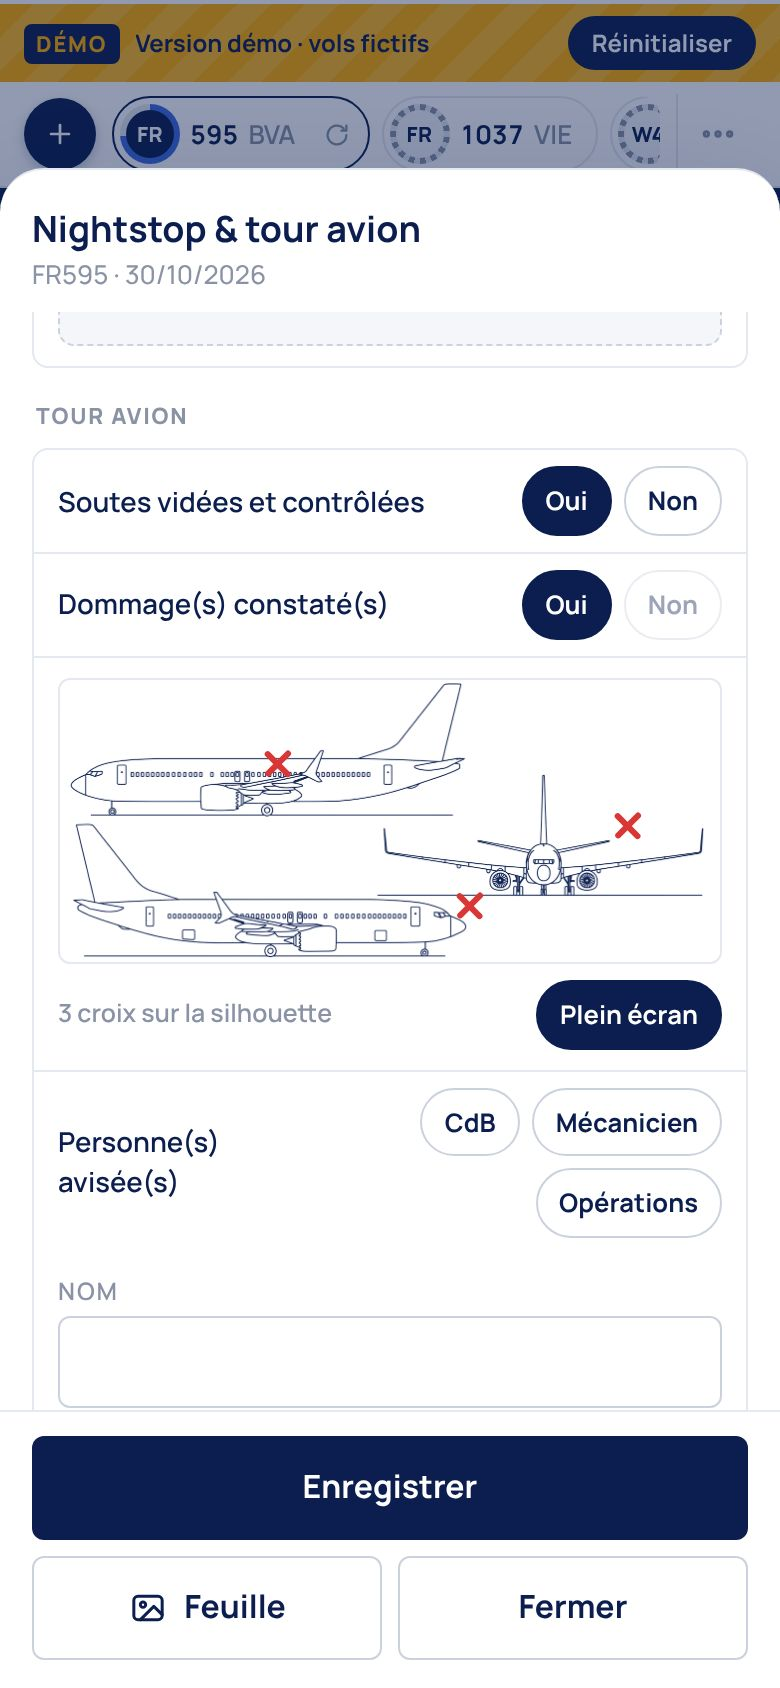
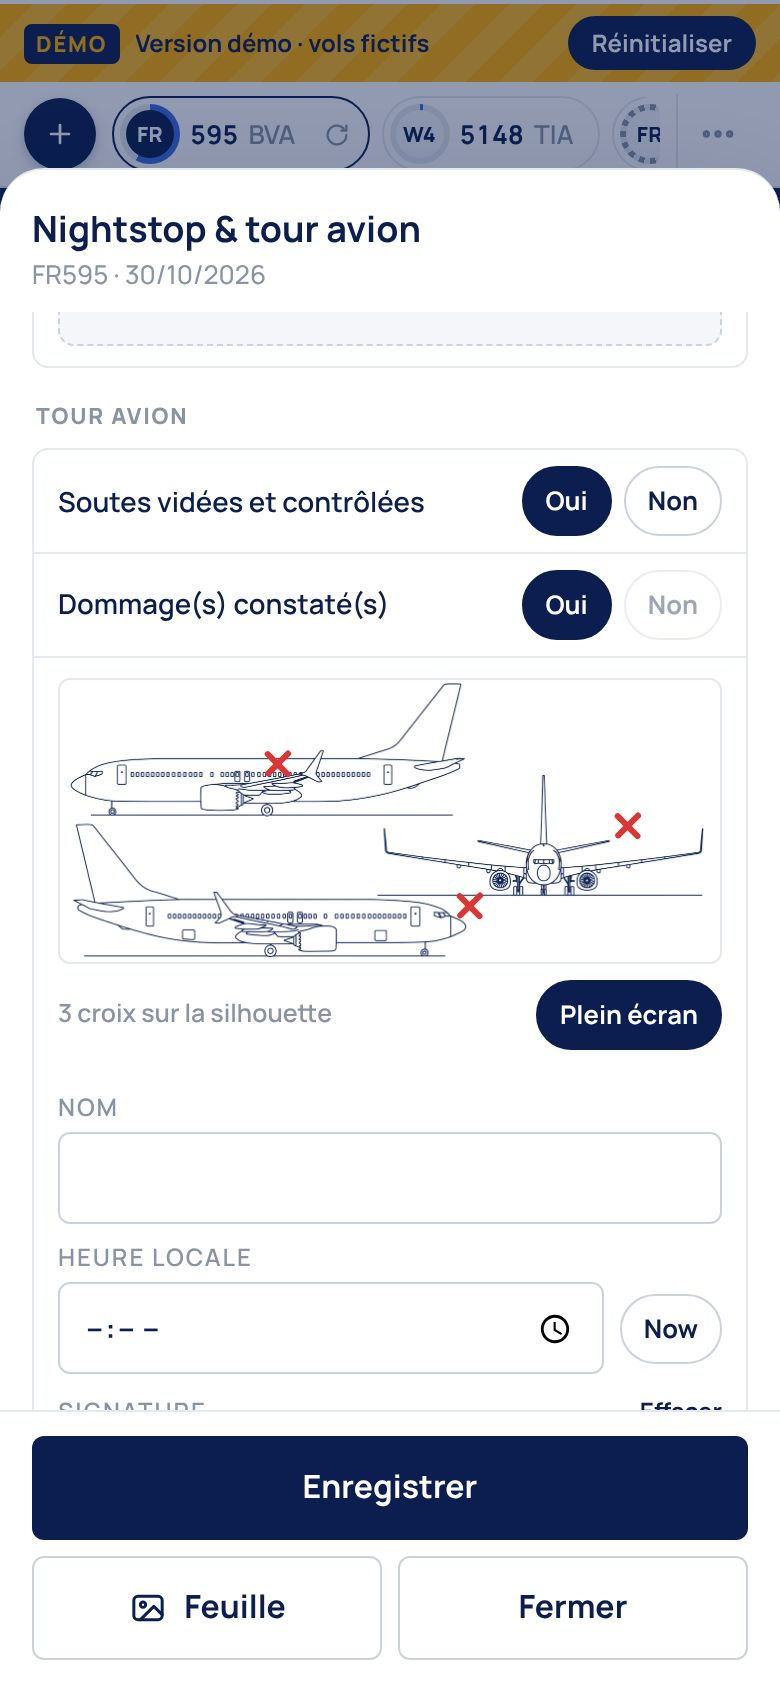
v3.51.2: Nightstop sans personnes avisées, heure prise à la signature, nom partagé fouille / tour avion + suggestions
Claude-Session: https://claude.ai/code/session_01BEmDqkNWhievWY6FKKJQpQ

diff --git a/nightstop.js b/nightstop.js
@@ -7,7 +7,7 @@
    Données du vol dans le champ caché Nightstop :
    { sv:{ toilV, toilR, eauV, eauR, men:'S'|'DC'|'DI'|'', ech, asu, tr:'BELLOVA'|'ASSISTAIR'|'', deg, dec },
      hs:{ on, ok, n, h, s },                       fouille soutes (retour basé, arrivée pays tiers)
-     ta:{ sv:'OUI'|'NON'|'', dm:'OUI'|'NON'|'', x:[[u,v]…], av:{ cdb, mec, ops }, n, h, s } }   tour avion
+     ta:{ sv:'OUI'|'NON'|'', dm:'OUI'|'NON'|'', x:[[u,v]…], n, h, s } }   tour avion
    Les croix sont en coordonnées relatives (0 à 1) sur la silhouette img/silhouette-b737.png.
    ===================================================================== */
 const NS_REQUIRED = false;
@@ -39,7 +39,7 @@ const NS_REQUIRED = false;
   function get(){
     let o = {};
     try{ o = JSON.parse($('Nightstop')?.value || '{}') || {}; }catch(e){}
-    o.sv = o.sv || {}; o.hs = o.hs || {}; o.ta = o.ta || {}; o.ta.x = o.ta.x || []; o.ta.av = o.ta.av || {};
+    o.sv = o.sv || {}; o.hs = o.hs || {}; o.ta = o.ta || {}; o.ta.x = o.ta.x || [];
     return o;
   }
   function set(o){
@@ -86,8 +86,12 @@ const NS_REQUIRED = false;
   window.uiNightstopClose = function(){ $('nsModal').style.display = 'none'; syncRow(); };
 
   const chip = (on, attrs, txt) => '<button type="button" class="ns-c' + (on ? ' on' : '') + '" ' + attrs + '>' + txt + '</button>';
+  // noms déjà saisis, proposés en suggestion (liste #nsNoms)
+  const nomsGet = () => { try{ const a = JSON.parse(localStorage.getItem('nsNoms') || '[]'); if(a.length) return a; const v = localStorage.getItem('nsNom'); return v ? [v] : []; }catch(e){ return []; } };
+  function nomsAdd(v){ try{ localStorage.setItem('nsNoms', JSON.stringify([v, ...nomsGet().filter(x => x.toLowerCase() !== v.toLowerCase())].slice(0, 8))); }catch(e){} }
+  const nomsList = () => '<datalist id="nsNoms">' + nomsGet().map(v => '<option value="' + esc(v) + '">').join('') + '</datalist>';
   const sigBlock = (key, name, nameLbl, ph, hour) =>
-      '<div class="field"><label class="label">' + nameLbl + '</label><input class="input" type="text" autocomplete="off" data-name="' + key + '" value="' + esc(name) + '"></div>'
+      '<div class="field"><label class="label">' + nameLbl + '</label><input class="input" type="text" autocomplete="off" list="nsNoms" data-name="' + key + '" value="' + esc(name) + '"></div>'
     + (hour != null ? '<div class="field ns-h"><label class="label">Heure locale</label><div class="ns-hrow"><input class="input" type="time" data-hour="' + key + '" value="' + esc(hour) + '"><button type="button" class="ns-c" data-now="' + key + '">Now</button></div></div>' : '')
     + '<div class="ac-sig-h"><span class="label">Signature</span><button type="button" class="ac-all" data-sigclr="' + key + '">Effacer</button></div>'
     + '<div class="ac-sig-wrap"><canvas class="ns-sig" data-sig="' + key + '"></canvas><span class="ac-sig-ph" data-ph="' + key + '">' + ph + '</span></div>';
@@ -130,10 +134,9 @@ const NS_REQUIRED = false;
       + '<div class="ns-row"><span>Dommage(s) constaté(s)</span><span class="ns-cs">' + chip(o.ta.dm === 'OUI', 'data-ta="dm" data-v="OUI"', 'Oui') + chip(o.ta.dm === 'NON', 'data-ta="dm" data-v="NON"' + (x.length ? ' disabled' : ''), 'Non') + '</span></div>'
       + '<div class="ns-pl-wrap"><button type="button" class="ns-pl" id="nsPlane" aria-label="Annoter la silhouette en plein écran">' + planeHTML(x) + '</button>'
       + '<div class="ns-pl-foot"><span>' + (x.length ? x.length + (x.length > 1 ? ' croix' : ' croix') + ' sur la silhouette' : 'Repérer le(s) dommage(s) par une croix') + '</span><button type="button" class="ns-c on" id="nsFullBtn">Plein écran</button></div></div>'
-      + '<div class="ns-row"><span>Personne(s) avisée(s)</span><span class="ns-cs">' + chip(o.ta.av.cdb, 'data-av="cdb"', 'CdB') + chip(o.ta.av.mec, 'data-av="mec"', 'Mécanicien') + chip(o.ta.av.ops, 'data-av="ops"', 'Opérations') + '</span></div>'
       + '<div class="ac-sign">' + sigBlock('t', o.ta.n || '', 'Nom', 'Signature', o.ta.h || '') + '</div>'
       + '</div>';
-    body.innerHTML = h;
+    body.innerHTML = h + nomsList();
     bind();
     paintPh();
   }
@@ -164,14 +167,16 @@ const NS_REQUIRED = false;
       upd(o => o.ta[k] = o.ta[k] === v ? '' : v);
       body.querySelectorAll('[data-ta="' + k + '"]').forEach(x => x.classList.toggle('on', get().ta[k] === x.dataset.v));
     });
-    body.querySelectorAll('[data-av]').forEach(b => b.onclick = () => { upd(o => o.ta.av[b.dataset.av] = !o.ta.av[b.dataset.av]); b.classList.toggle('on'); });
-    body.querySelectorAll('[data-name]').forEach(i => i.oninput = () => upd(o => {
-      const k = i.dataset.name, v = i.value.trim();
-      if(k === 'h') o.hs.n = v; else o.ta.n = v;
-      try{ if(v) localStorage.setItem('nsNom', v); }catch(e){}
-    }));
-    // nom du responsable piste repris du dernier vol
-    body.querySelectorAll('[data-name="t"],[data-name="h"]').forEach(i => { if(!i.value){ try{ i.value = localStorage.getItem('nsNom') || ''; }catch(e){} if(i.value) i.oninput(); } });
+    // nom : fouille des soutes <-> tour avion, l'un remplit l'autre tant que l'autre n'a pas été saisi à la main
+    const names = [...body.querySelectorAll('[data-name]')];
+    const saveName = i => upd(o => { const v = i.value.trim(); if(i.dataset.name === 'h') o.hs.n = v; else o.ta.n = v; });
+    names.forEach(i => i.oninput = () => {
+      delete i.dataset.auto; saveName(i);
+      names.forEach(j => { if(j !== i && (!j.value || j.dataset.auto)){ j.value = i.value; j.dataset.auto = '1'; saveName(j); } });
+    });
+    names.forEach(i => i.onchange = () => { const v = i.value.trim(); if(v) nomsAdd(v); });
+    // nom vide : repris de l'autre signature, sinon du dernier nom saisi
+    names.forEach(i => { if(!i.value){ const v = (names.find(j => j !== i && j.value.trim()) || {}).value || nomsGet()[0] || ''; if(v){ i.value = v; i.dataset.auto = '1'; saveName(i); } } });
     body.querySelectorAll('[data-hour]').forEach(i => i.onchange = () => upd(o => { if(i.dataset.hour === 'h') o.hs.h = i.value; else o.ta.h = i.value; }));
     body.querySelectorAll('[data-now]').forEach(b => b.onclick = () => {
       const i = body.querySelector('[data-hour="' + b.dataset.now + '"]'); i.value = nowHM(); i.onchange();
@@ -205,13 +210,14 @@ const NS_REQUIRED = false;
     }
     if(cv.dataset.bound) return;
     cv.dataset.bound = '1';
-    let drawing = false, last = null;
+    let drawing = false, last = null, fresh = false;
     const pt = e => { const r = cv.getBoundingClientRect(); return [e.clientX - r.left, e.clientY - r.top]; };
     cv.addEventListener('pointerdown', e => {
       e.preventDefault(); cv.setPointerCapture?.(e.pointerId);
       // taille changée depuis l'ouverture (rotation, clavier) : recaler le canevas avant de dessiner
       if(cv.width !== Math.round(cv.clientWidth * (window.devicePixelRatio || 1))) sigInit(cv);
       drawing = true; last = pt(e);
+      const o0 = get(); fresh = !(k === 'h' ? o0.hs.s : o0.ta.s);
       const c = cv.getContext('2d'); c.beginPath(); c.arc(last[0], last[1], 1.1, 0, 7); c.fillStyle = c.strokeStyle; c.fill();
       const ph = document.querySelector('#nsBody [data-ph="' + k + '"]'); if(ph) ph.hidden = true;
     });
@@ -227,11 +233,12 @@ const NS_REQUIRED = false;
       const tc = t.getContext('2d'); tc.drawImage(cv, 0, 0, w1, h1);
       tc.globalCompositeOperation = 'source-in'; tc.fillStyle = '#0B1E4F'; tc.fillRect(0, 0, w1, h1);
       const png = t.toDataURL('image/png');
-      upd(o => {
-        if(k === 'h'){ o.hs.s = png; if(!o.hs.h) o.hs.h = nowHM(); }
-        else { o.ta.s = png; if(!o.ta.h) o.ta.h = nowHM(); }
-      });
-      const hi = document.querySelector('#nsBody [data-hour="' + k + '"]'); if(hi && !hi.value) hi.value = nowHM();
+      // heure de signature prise automatiquement (premier trait d'une signature vide)
+      const hi = document.querySelector('#nsBody [data-hour="' + k + '"]');
+      const hh = fresh || !(hi && hi.value) ? nowHM() : hi.value;
+      upd(o => { if(k === 'h'){ o.hs.s = png; o.hs.h = hh; } else { o.ta.s = png; o.ta.h = hh; } });
+      if(hi) hi.value = hh;
+      const ni = document.querySelector('#nsBody [data-name="' + k + '"]'); if(ni && ni.value.trim()) nomsAdd(ni.value.trim());
     };
     cv.addEventListener('pointerup', end); cv.addEventListener('pointercancel', end); cv.addEventListener('pointerleave', end);
   }
@@ -304,7 +311,6 @@ const NS_REQUIRED = false;
     y += 12; sec('Tour avion');
     row('Soutes vidées et contrôlées', o.ta.sv || '—');
     row('Dommage(s) constaté(s)', (o.ta.dm || '—') + (o.ta.x.length ? ' · ' + o.ta.x.length + ' croix' : ''));
-    row('Personne(s) avisée(s)', [o.ta.av.cdb && 'Commandant de bord', o.ta.av.mec && 'Mécanicien', o.ta.av.ops && 'Opérations'].filter(Boolean).join(', ') || '—');
     row('Nom · heure', (o.ta.n || '—') + ' · ' + (o.ta.h || '--:--') + (o.ta.s ? '  · signé' : ''));
     const load = src => new Promise(res => { if(!src) return res(null); const i = new Image(); i.onload = () => res(i); i.onerror = () => res(null); i.src = src; });
     return Promise.all([load(IMG), load(m === 'arr' && o.hs.on ? o.hs.s : ''), load(o.ta.s)]).then(([pl, sh, st]) => {
@@ -358,8 +364,6 @@ const NS_REQUIRED = false;
     t += '\nTOUR AVION\n';
     t += 'SOUTES VIDEES ET CONTROLEES : ' + (o.ta.sv || '-') + '\n';
     t += 'DOMMAGES CONSTATES : ' + (o.ta.dm || '-') + (o.ta.x.length ? ' (' + o.ta.x.length + ' croix sur la silhouette)' : '') + '\n';
-    const av = [o.ta.av.cdb && 'CDB', o.ta.av.mec && 'MECANICIEN', o.ta.av.ops && 'OPERATIONS'].filter(Boolean).join(', ');
-    if(av) t += 'AVISE(S) : ' + av + '\n';
     t += 'RESPONSABLE : ' + (o.ta.n || '-') + ' ' + (o.ta.h || '') + ' · SIGNATURE ' + (o.ta.s ? 'OUI' : 'NON') + '\n';
     return t;
   };

diff --git a/index.html b/index.html
@@ -22,7 +22,7 @@
 /* Mise a jour forcee : si version.json (lu sans cache) annonce une autre
    version que celle-ci, on vide les caches et on recharge la page.
    A chaque livraison : changer APP_VERSION ici, dans version.json et les ?v=. */
-window.APP_VERSION = '20261030r218';
+window.APP_VERSION = '20261030r219';
 (function(){
   function check(){
     fetch('./version.json?t=' + Date.now(), { cache: 'no-store' })
@@ -44,8 +44,8 @@ window.APP_VERSION = '20261030r218';
   document.addEventListener('visibilitychange', function(){ if(document.visibilityState === 'visible') check(); });
 })();
 </script>
-<link rel="stylesheet" href="./fonts/fonts.css?v=20261030r218" />
-<link rel="stylesheet" href="./css/app.css?v=20261030r218" />
+<link rel="stylesheet" href="./fonts/fonts.css?v=20261030r219" />
+<link rel="stylesheet" href="./css/app.css?v=20261030r219" />
 </head>
 <body>
 
@@ -1191,20 +1191,20 @@ function digitsOnly(el){ el.value = (el.value || '').replace(/[^0-9]/g, ''); }
 
 <!-- Cache-busting : incrementer ?v= a CHAQUE deploiement pour forcer
      les navigateurs (et iOS) a recharger app.js au lieu du cache. -->
-<script src="./edition.js?v=20261030r218"></script>
-<script src="./cfg.js?v=20261030r218"></script>
-<script src="./contacts.js?v=20261030r218"></script>
-<script src="./app.js?v=20261030r218"></script>
-<script src="./app-load.js?v=20261030r218"></script>
-<script src="./app-onglets.js?v=20261030r218"></script>
-<script src="./app-retard.js?v=20261030r218"></script>
-<script src="./app-timeline.js?v=20261030r218"></script>
-<script src="./app-keeper.js?v=20261030r218"></script>
-<script src="./app-outils.js?v=20261030r218"></script>
-<script src="./demo-auto.js?v=20261030r218"></script>
-<script src="./ui.js?v=20261030r218"></script>
-<script src="./tools.js?v=20261030r218"></script>
-<script src="./nightstop.js?v=20261030r218"></script>
-<script src="./dlcodes.js?v=20261030r218"></script>
+<script src="./edition.js?v=20261030r219"></script>
+<script src="./cfg.js?v=20261030r219"></script>
+<script src="./contacts.js?v=20261030r219"></script>
+<script src="./app.js?v=20261030r219"></script>
+<script src="./app-load.js?v=20261030r219"></script>
+<script src="./app-onglets.js?v=20261030r219"></script>
+<script src="./app-retard.js?v=20261030r219"></script>
+<script src="./app-timeline.js?v=20261030r219"></script>
+<script src="./app-keeper.js?v=20261030r219"></script>
+<script src="./app-outils.js?v=20261030r219"></script>
+<script src="./demo-auto.js?v=20261030r219"></script>
+<script src="./ui.js?v=20261030r219"></script>
+<script src="./tools.js?v=20261030r219"></script>
+<script src="./nightstop.js?v=20261030r219"></script>
+<script src="./dlcodes.js?v=20261030r219"></script>
 </body>
 </html>

diff --git a/manuel.html b/manuel.html
@@ -132,7 +132,7 @@ mark{background:var(--mark);color:inherit;border-radius:3px;padding:0 1px}
 <script>
 // Contenu du manuel : [groupe, id, titre, captures (manuel/img/*.jpg), texte HTML]
 // IMGV : à changer quand des captures sont refaites (sinon le navigateur garde les anciennes)
-const IMGV = '6';
+const IMGV = '7';
 const I = (f, c) => [f, c];
 // gros plans (captures recadrées, haute définition) affichés sous le texte de la rubrique
 const ZM = {
@@ -293,7 +293,8 @@ const S = [
 <p>Pour les vols basés : <b>départ basé</b> (From = BVA) et <b>retour basé</b> (To = BVA). La ligne <span class="k">Nightstop</span> apparaît alors dans l'onglet Retard, au-dessus de Valider le vol. Elle remplace la feuille papier « Checklist &amp; suivi des prestations nightstop » remise au responsable piste.</p>
 <ul><li><b>Prestations</b> : toilettes et eau potable (vidange / remplissage), ménage <b>S / DC / DI</b>, 2 échelles, ASU, tractage (Bellova / Assist'Air), dégivrage, collecte déchets. Un appui coche ou décoche.</li>
 <li><b>Fouille des soutes</b> (hold security search) : retour basé uniquement, à activer quand le vol arrive d'un pays tiers. Nom, heure et signature.</li>
-<li><b>Tour avion</b> : soutes vidées et contrôlées, dommages constatés, personnes avisées (CdB, mécanicien, opérations), nom, heure et signature.</li></ul>
+<li><b>Tour avion</b> : soutes vidées et contrôlées, dommages constatés, nom, heure et signature.</li></ul>
+<p>L'<b>heure</b> se remplit toute seule à la signature (modifiable, ou <span class="k">Now</span>). Le <b>nom</b> saisi pour la fouille est repris pour le tour avion, et inversement ; les noms déjà utilisés sont proposés en suggestion.</p>
 <p>Les dommages se notent par des <b>croix sur la silhouette</b> : dès qu'une croix est posée, « Dommage(s) constaté(s) » passe à <b>Oui</b> et ne peut plus être mis à Non tant qu'il reste une croix. <span class="k">Plein écran</span> passe la silhouette en grand, en paysage (si le téléphone est tenu droit, l'image pivote d'elle-même). Un appui pose une croix, un appui sur une croix l'enlève ; <span class="k">Annuler la dernière</span> et <span class="k">Tout effacer</span> sont dans la barre du haut.</p>
 <p><span class="k">Feuille</span> partage ou télécharge la feuille complète en image, silhouette comprise. Le contenu est repris dans le rapport du vol.</p>
 <div class="tip info">Feuille <b>facultative</b> dans la version actuelle, comme l'auto-contrôle. Elle deviendra <b>obligatoire</b> une fois le serveur des rapports mis en place.</div>`],
